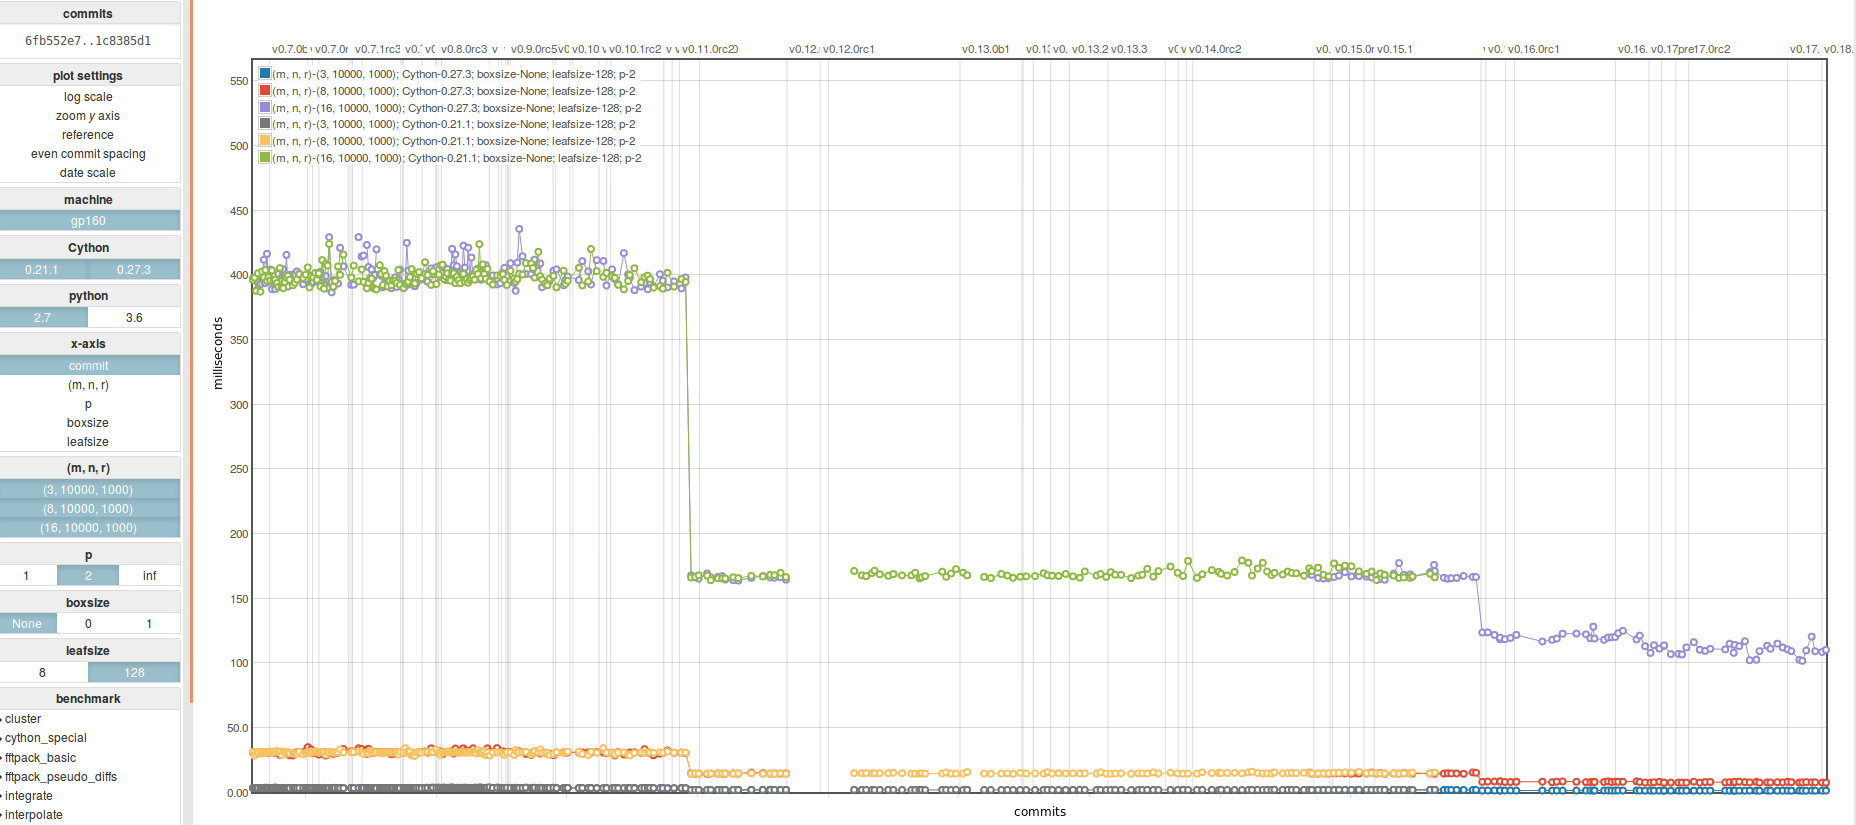
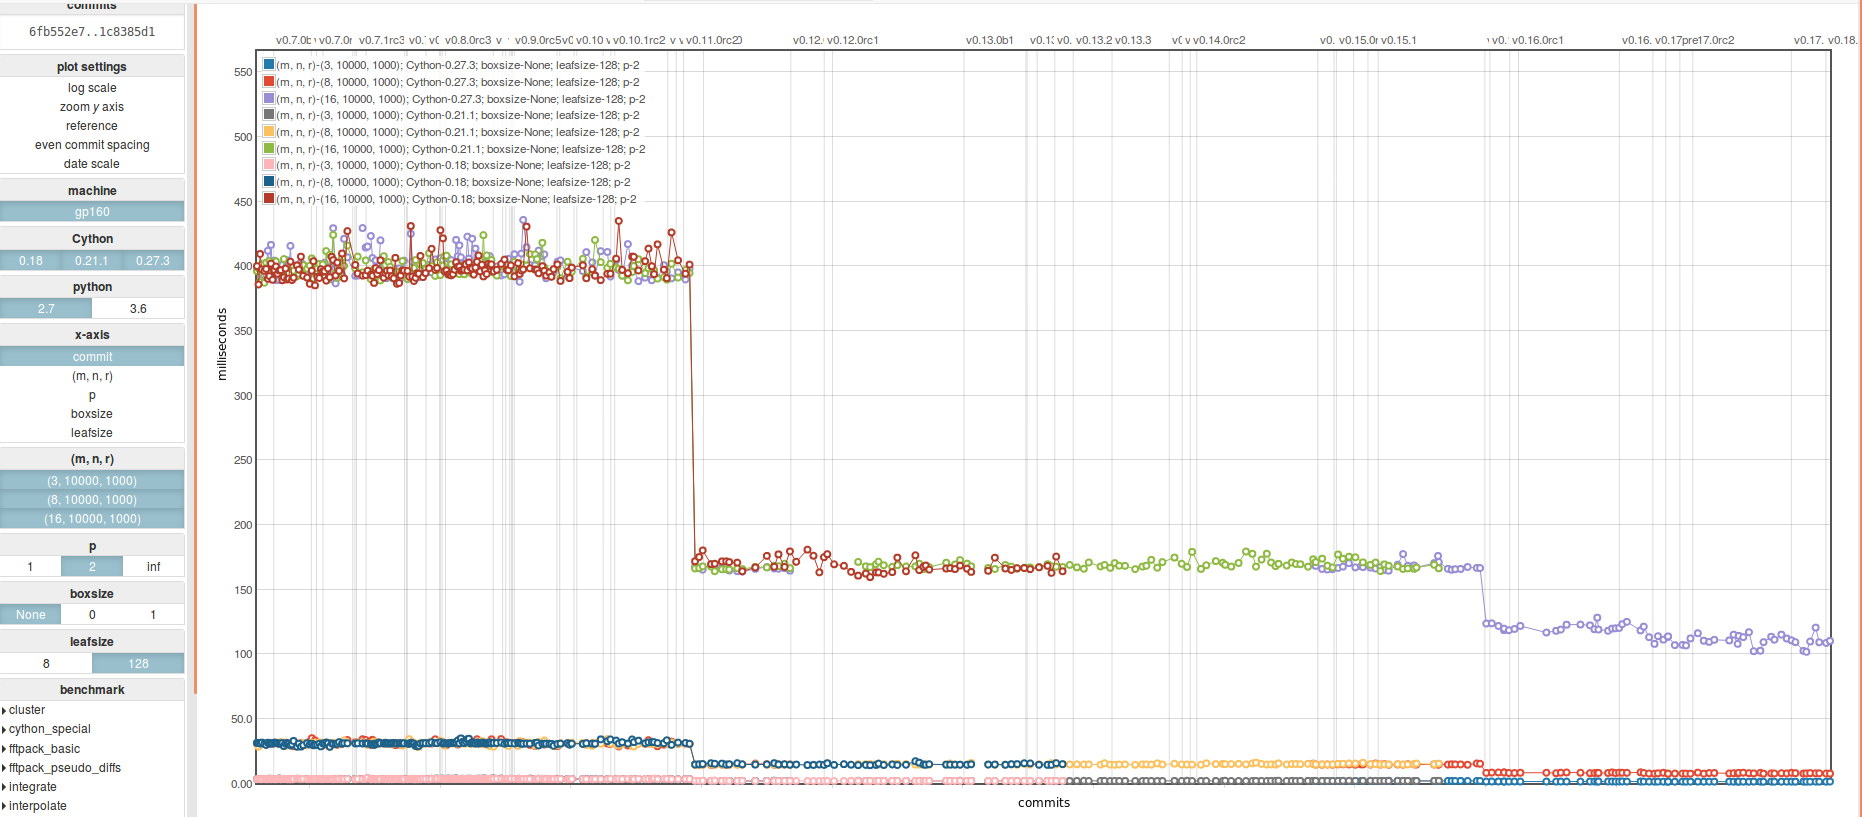
ENH: update asv benchmarks with additional version of Cython.

diff --git a/scipy-1.0/paper.tex b/scipy-1.0/paper.tex
@@ -98,7 +98,7 @@ LowLevelCallable
     \begin{figure}[H]
         \centering
         \includegraphics[width=\textwidth]{static/asv_time_query_ckdtree}
-        \caption{Airspeed velocity benchmarks for scipy.spatial.cKDTree.query() over a roughly nine year commit history time frame. The results are based on Python 2.7 performance on the master branch of the project using numpy 1.8.2 and Cython versions 0.27.3 and 0.21.1 (for improved backward compatibility). Only the L2 (Euclidean) norm is shown here, and to improve backward compatibility and sampling of the benchmarks there was no application of toroidal topology to the KDTree (boxsize argument was ignored).}
+        \caption{Airspeed velocity benchmarks for scipy.spatial.cKDTree.query() over a roughly nine year commit history time frame. The results are based on Python 2.7 performance on the master branch of the project using numpy 1.8.2 and Cython versions 0.27.3, 0.21.1, and 0.18 (for improved backward compatibility). Only the L2 (Euclidean) norm is shown here, and to improve backward compatibility and sampling of the benchmarks there was no application of toroidal topology to the KDTree (boxsize argument was ignored).}
         \label{fig:asvbench}
     \end{figure}
 
